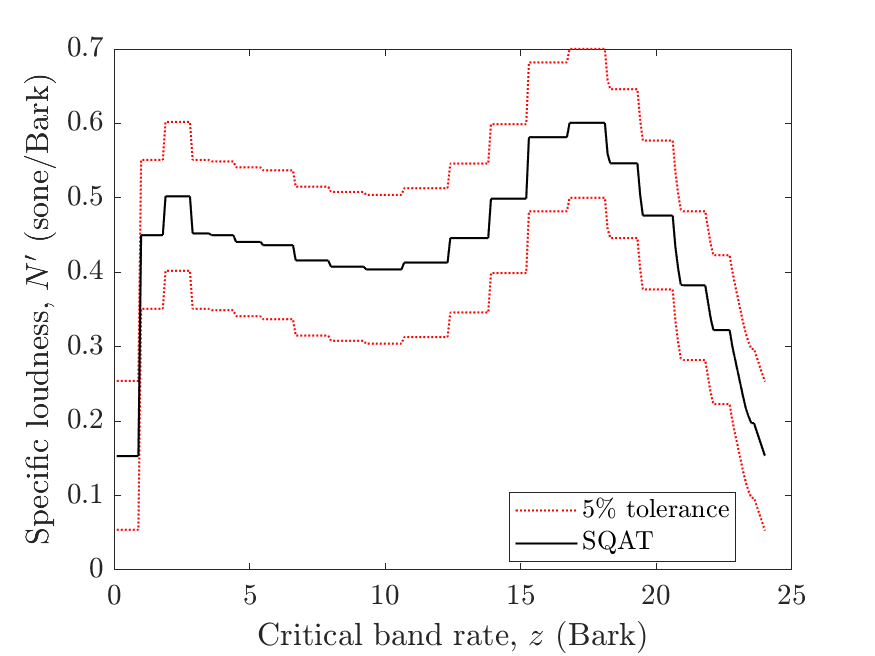
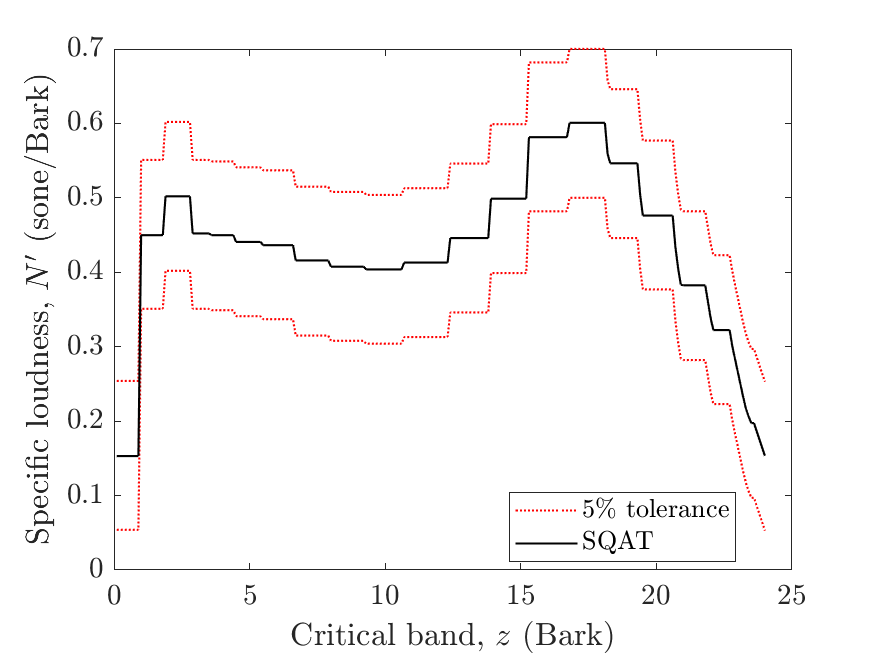
loudness validation (stationary sounds)
- xlabel changed to keep consistency with other validation plots
- all necessary figs were updated

Changed region(s): [[0.2777, 0.9451, 0.7406, 1.0]]

diff --git a/validation/Loudness_ISO532_1/1_synthetic_signals_stationary_loudness/validation_stationary_loudness_synthetic_signals.m b/validation/Loudness_ISO532_1/1_synthetic_signals_stationary_loudness/validation_stationary_loudness_synthetic_signals.m
@@ -173,7 +173,7 @@ handle_b=plot( OUT.barkAxis, OUT.SpecificLoudness,'k','Linewidth',1); % calculat
 legend([handle_a,handle_b],'5\% tolerance','SQAT','Location','Best');
 
 ylabel('Specific loudness, $N^{\prime}~(\mathrm{sone}/\mathrm{Bark})$','Interpreter','Latex');
-xlabel('Critical band rate, $z$ (Bark)','Interpreter','Latex'); 
+xlabel('Critical band, $z$ (Bark)','Interpreter','Latex'); 
 
 grid off
 
